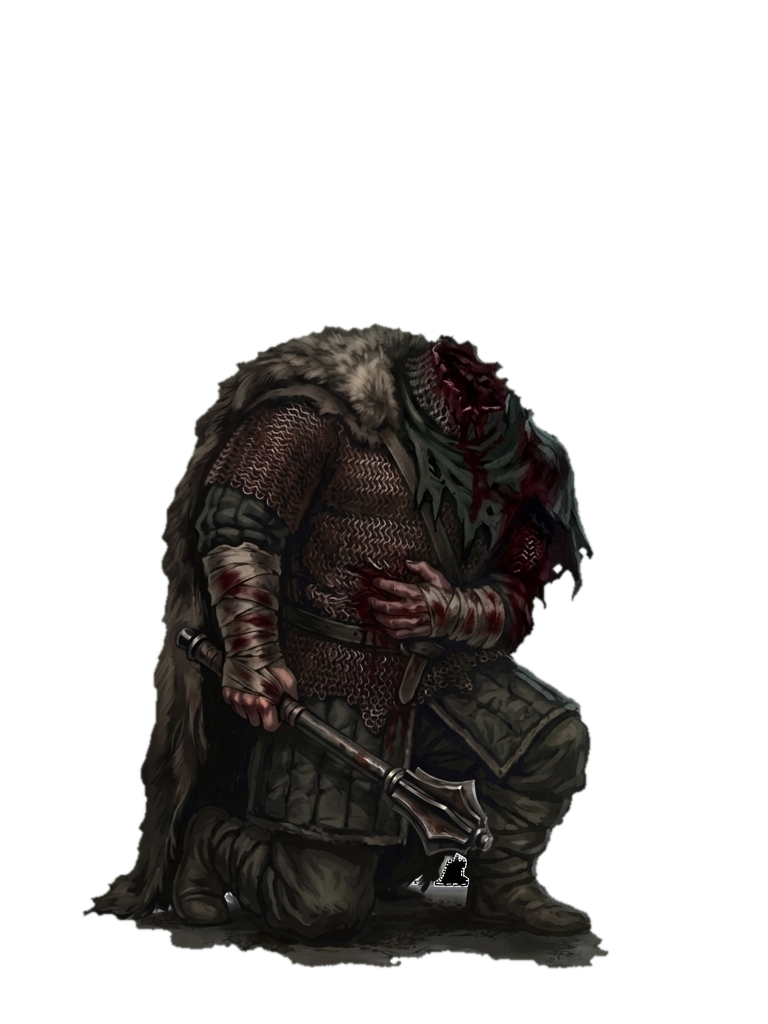
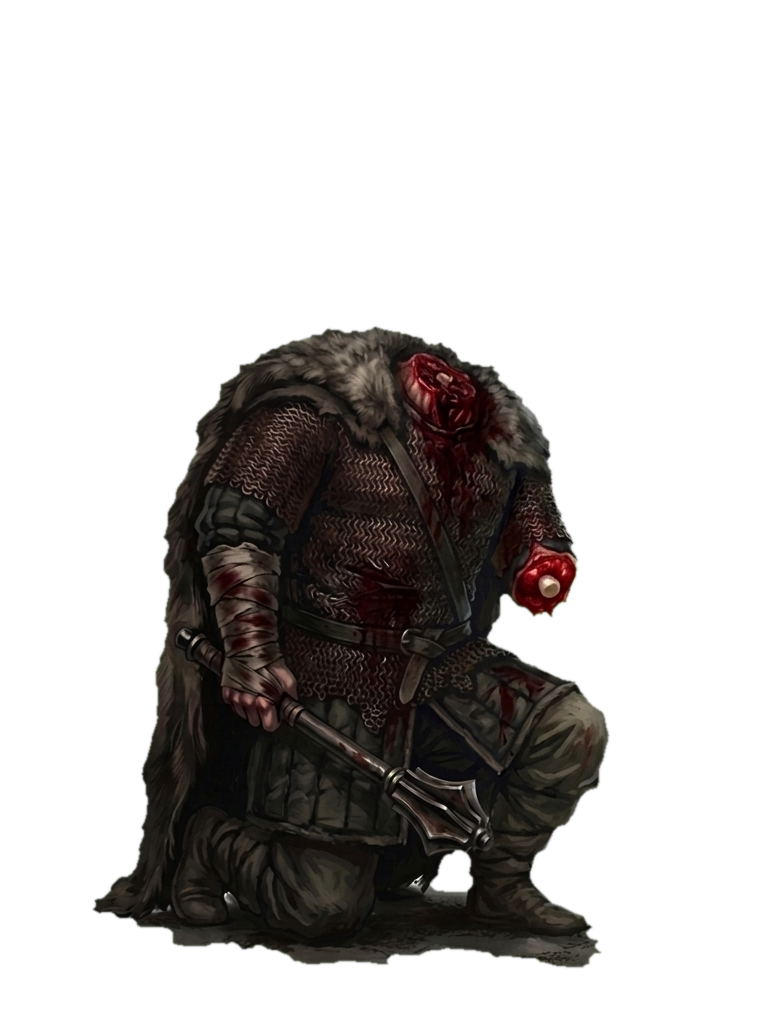
On the Edge: the Skomorokh's and the Volkolak's seven maimed pictures; the Bogatyr headless without a shield had kept his arm, redone. A headless maimed pose is now painted from the maimed downed picture, beheading only

diff --git a/tools/flow_downed_cmds.py b/tools/flow_downed_cmds.py
@@ -56,13 +56,26 @@ def prompt(hero, mark):
             "the missing part was, nothing new added, no other limb moved, exactly as many remaining arms and legs as before.")
 
 
-def upload(hero):
-    pic = Image.open(os.path.join(HEROES, f"{hero}_downed-gemini.png")).convert("RGBA")
+def upload(hero, base=""):
+    """Puts `<hero><base>_downed` on a green square for Flow and returns the file's name."""
+    pic = Image.open(os.path.join(HEROES, f"{hero}{base}_downed-gemini.png")).convert("RGBA")
     side = max(pic.size)
     sq = Image.new("RGBA", (side, side), (0, 255, 0, 255))
     sq.alpha_composite(pic, ((side - pic.width) // 2, (side - pic.height) // 2))
-    path = os.path.join(ROOT, "_inbox", "flow_up", f"down_{hero}.png")
-    sq.convert("RGB").save(path)
+    name = f"down_{hero}{base}.png"
+    sq.convert("RGB").save(os.path.join(ROOT, "_inbox", "flow_up", name))
+    return name
+
+
+def behead(hero, base):
+    """A beheading of the hero's maimed downed picture: asked of the whole picture at once, Flow
+    takes the head and leaves the arm (the Bogatyr's shield came off, his arm stayed)."""
+    who, pr, _, _ = WHO[hero]
+    arms = {"_noarms": "armless", "_noweapon": "one-armed", "_noshield": "one-armed"}[base]
+    return (f"Edit the attached picture: keep the SAME {arms} {who}, {pr} pose, framing, size, position, colours, painted style, "
+            f"every bloody shoulder stump and plain green background pixel for pixel, square 1:1, one single image, no text. Only "
+            f"this changes: {pr} whole head with all the hair" + (" and the beard" if pr == "his" else "") + ", cut off at the "
+            "neck, leaving a raw bloody neck stump. Plain green where the head was, nothing new added, no arm added or moved.")
 
 
 def missing(hero):
@@ -70,22 +83,33 @@ def missing(hero):
     return [m for m in MARKS if have(f"{hero}{m}") and not have(f"{hero}{m}_downed")]
 
 
+def asks(name, prompts):
+    out = ["click getByRole('button', { name: 'Добавить ингредиенты в окно запроса' })", "wait 1200",
+           f"upload getByRole('button', {{ name: 'Загрузить' }}).last() {UP}/{name}", "wait 9000"]
+    for i, p in enumerate(prompts):
+        # the ingredients panel is still open after the upload
+        out += ([] if i == 0 else ["click getByRole('button', { name: 'Добавить ингредиенты в окно запроса' })", "wait 1200"]) + [
+                f'click "text={name} >> visible=true >> nth=0"', "wait 1000",
+                "eval \"() => { const b=[...document.querySelectorAll('button')].find(b=>b.textContent.trim()==='Добавить в запрос'); if(b){b.click(); return 'added'} return 'direct' }\"",
+                "wait 800", "press Escape", "wait 500",
+                "click getByRole('textbox', { name: 'Что вы хотите создать?' })", f'type "{p}"',
+                "click getByRole('button', { name: 'Начать генерацию' })", "wait 3000"]
+    return out
+
+
 def main():
     hero = sys.argv[1]
     marks = sys.argv[2:] or missing(hero)
-    upload(hero)
-    out = ["click getByRole('button', { name: 'Добавить ингредиенты в окно запроса' })", "wait 1200",
-           f"upload getByRole('button', {{ name: 'Загрузить' }}).last() {UP}/down_{hero}.png", "wait 9000"]
-    for i, m in enumerate(marks):
-        # the ingredients panel is still open after the upload
-        out += ([] if i == 0 else ["click getByRole('button', { name: 'Добавить ингредиенты в окно запроса' })", "wait 1200"]) + [
-                f'click "text=down_{hero}.png >> visible=true >> nth=0"', "wait 1000",
-                "eval \"() => { const b=[...document.querySelectorAll('button')].find(b=>b.textContent.trim()==='Добавить в запрос'); if(b){b.click(); return 'added'} return 'direct' }\"",
-                "wait 800", "press Escape", "wait 500",
-                "click getByRole('textbox', { name: 'Что вы хотите создать?' })", f'type "{prompt(hero, m)}"',
-                "click getByRole('button', { name: 'Начать генерацию' })", "wait 3000"]
+    have = lambda s: os.path.exists(os.path.join(HEROES, f"{s}_downed-gemini.png"))
+    # a headless maimed pose comes from its maimed downed picture once that exists
+    chained = [m for m in marks if m.startswith("_headless_") and have(hero + m[len("_headless"):])]
+    plain = [m for m in marks if m not in chained]
+    out = asks(upload(hero), [prompt(hero, m) for m in plain]) if plain else []
+    for m in chained:
+        base = m[len("_headless"):]
+        out += asks(upload(hero, base), [behead(hero, base)])
     print("\n".join(out))
-    print(" ".join(marks), file=sys.stderr)
+    print(" ".join(plain), "| from the maimed:", " ".join(chained), file=sys.stderr)
 
 
 if __name__ == "__main__":
